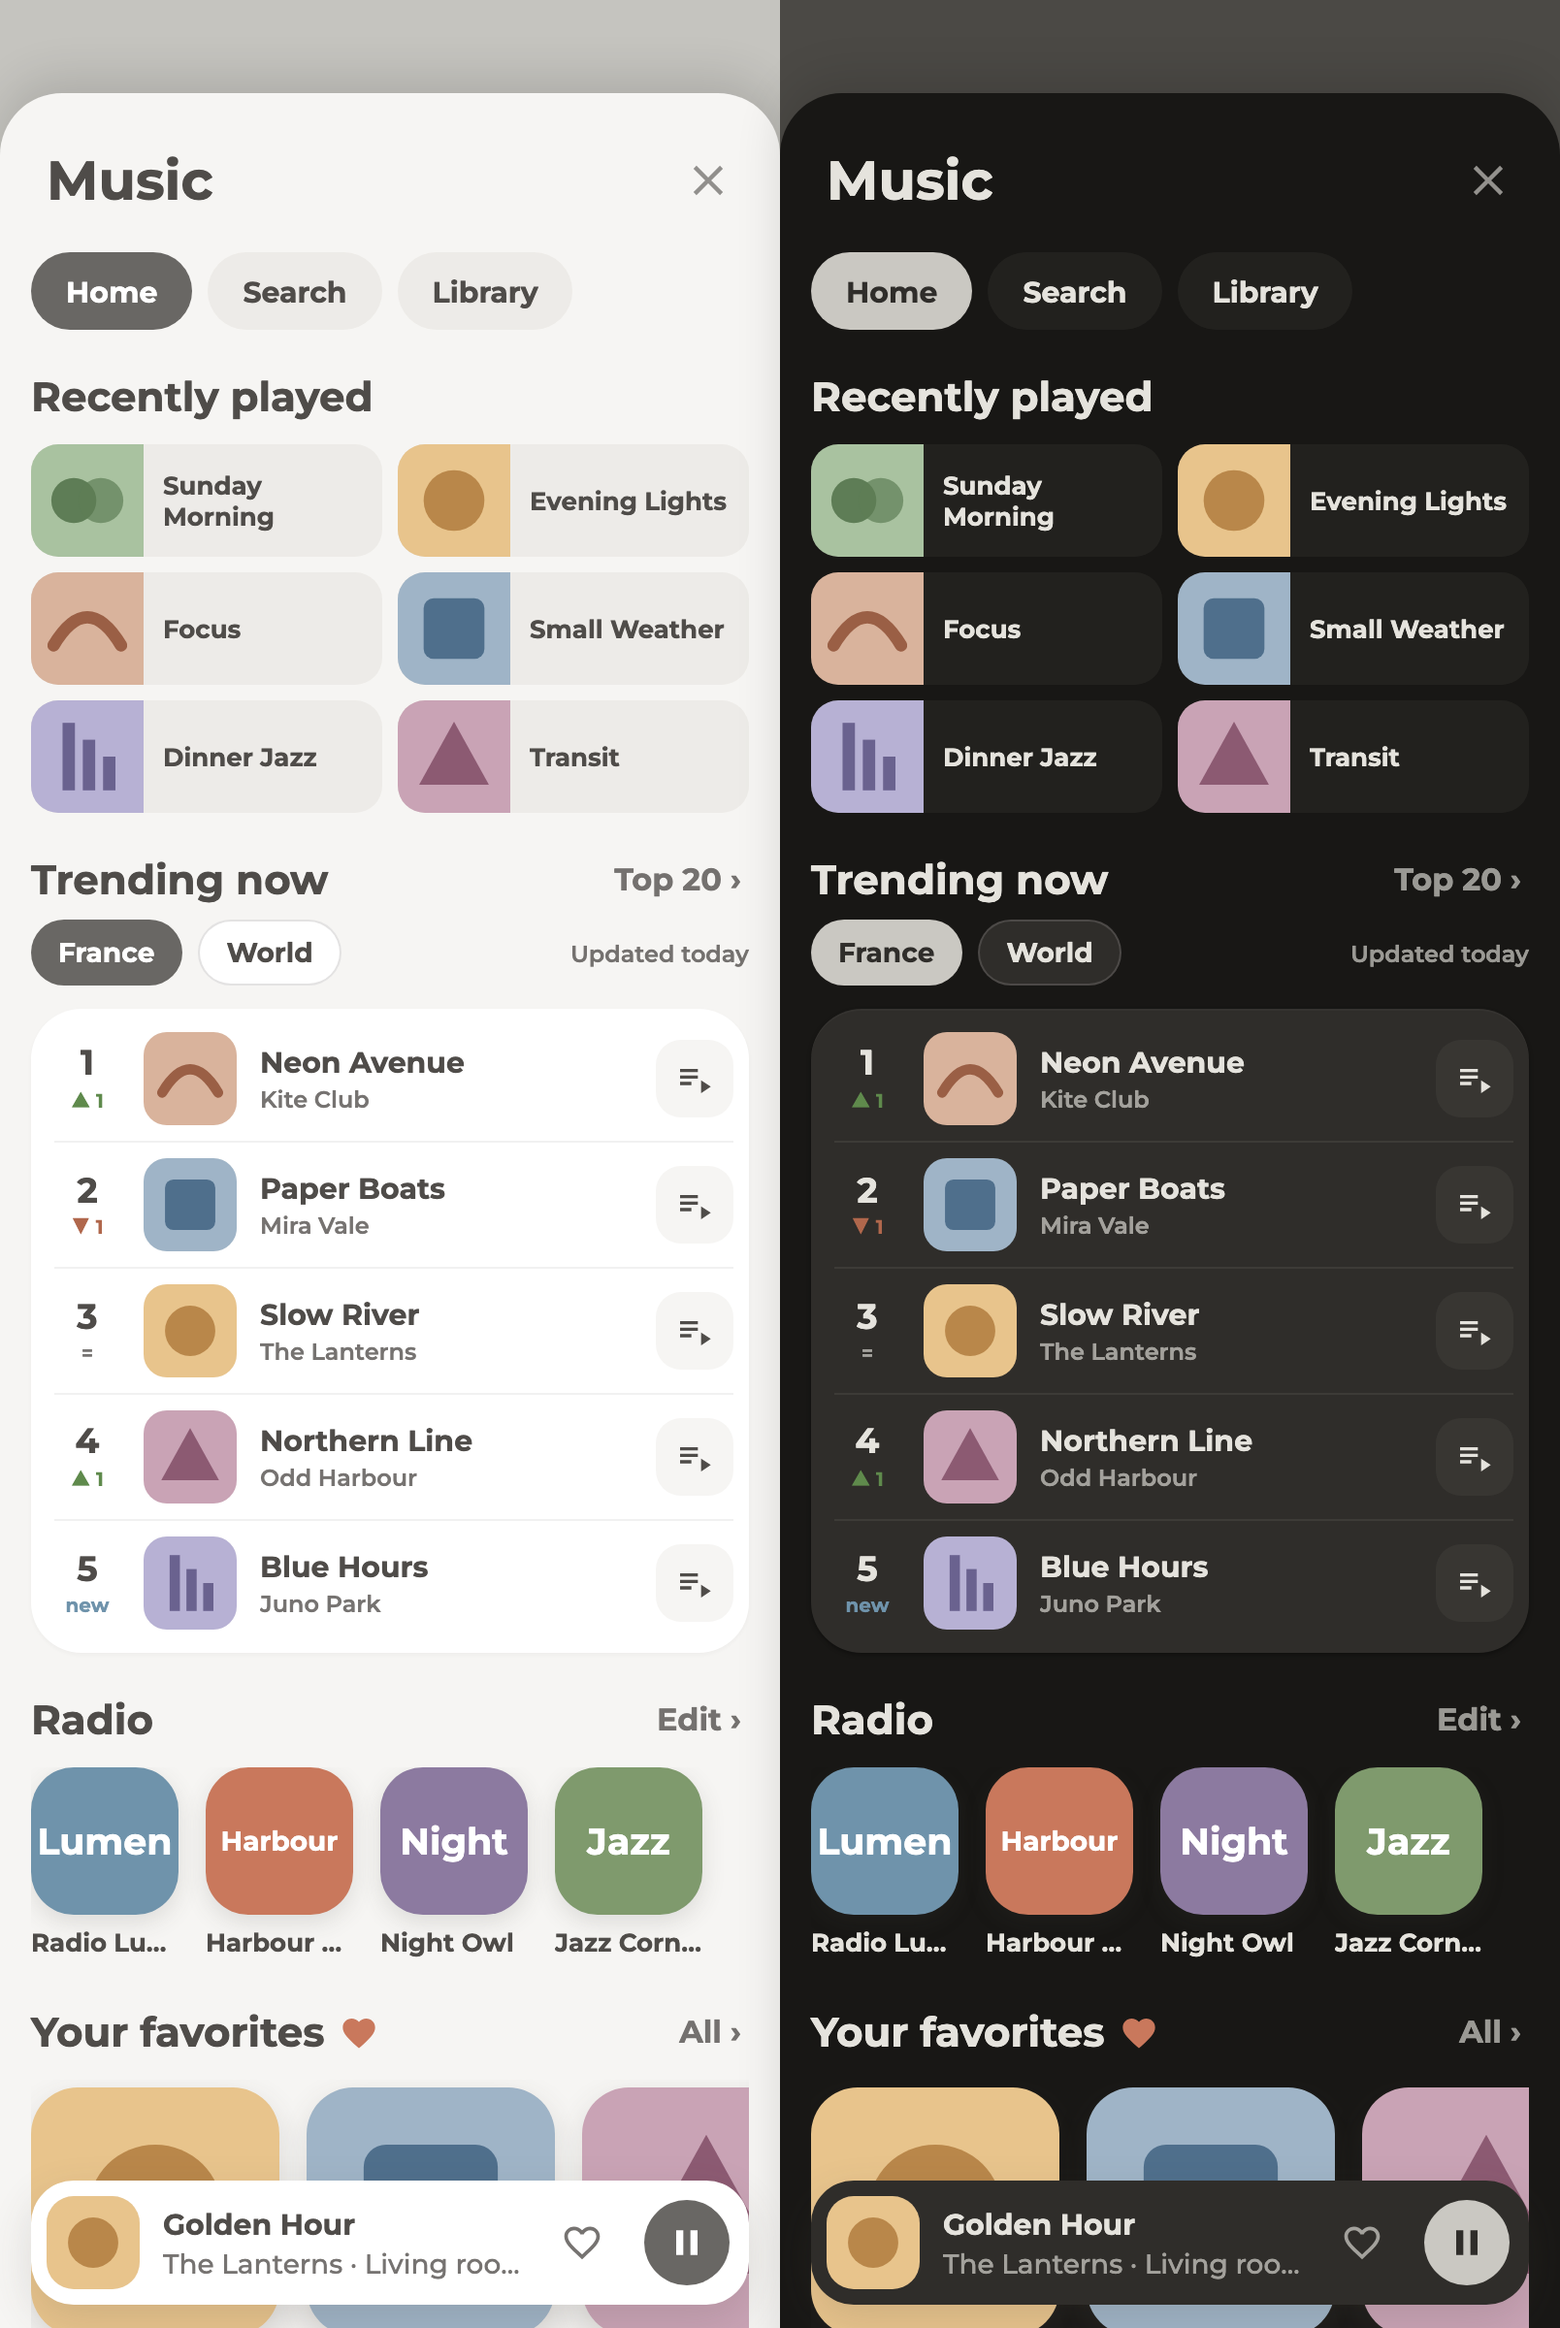
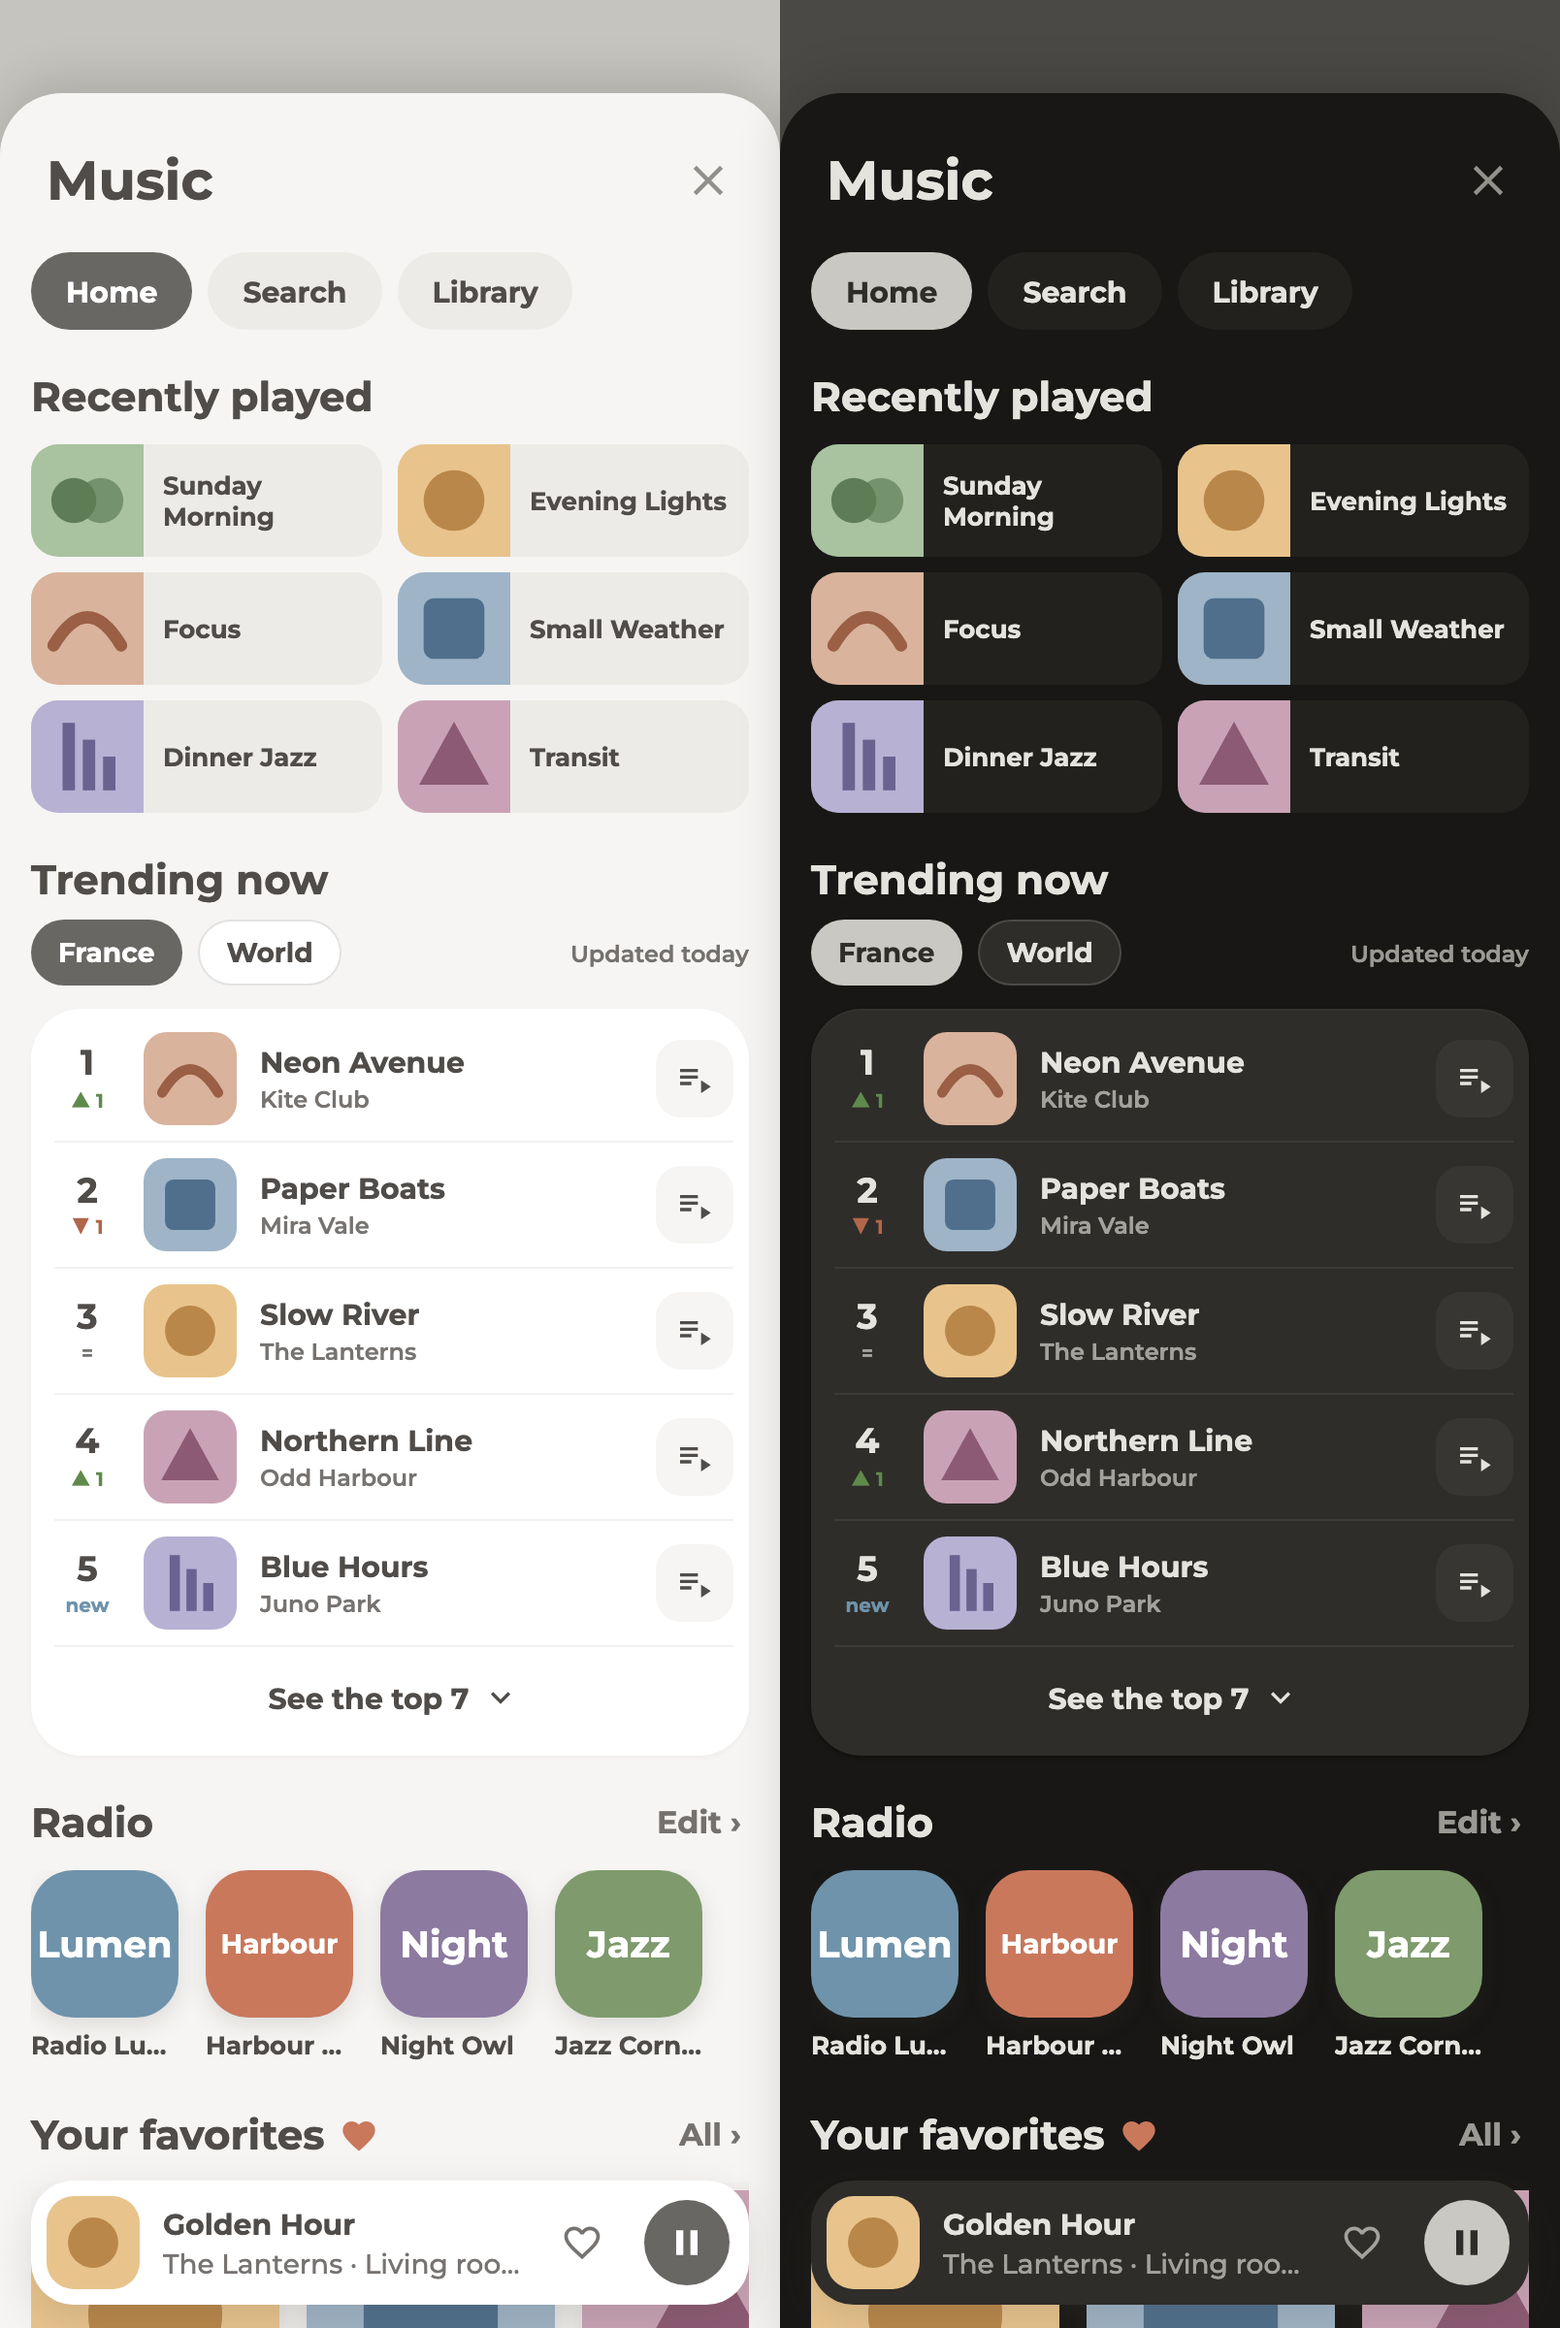
A button under the chart list to see the whole chart

diff --git a/origami-music.js b/origami-music.js
@@ -139,7 +139,7 @@ const ORIGAMI_MUSIC_TEXT = {
     kind: { playlist: "Playlist", album: "Album", artist: "Artiste", track: "Titre", radio: "Radio", podcast: "Podcast", audiobook: "Livre audio" },
     home: "Accueil", searchTab: "Recherche", libTab: "Bibliothèque", played: "Écouté récemment", trends: "Tendances du moment",
     updated: "Mis à jour ", today: "aujourd'hui", yesterday: "hier", on: "le ",
-    top: "Top 20 ›", topLess: "Top 5 ‹", isNew: "nouveau", radios: "Radios", edit: "Modifier ›", favs: "Tes favoris", all: "Tout ›",
+    top: "Voir le top ", topLess: "Voir moins", isNew: "nouveau", radios: "Radios", edit: "Modifier ›", favs: "Tes favoris", all: "Tout ›",
     artists: "Tes artistes", liked: "Titres favoris", recentSearches: "Recherches récentes", clear: "Tout effacer", browse: "Parcourir",
     added: "Ajouts récents", sortRecent: "Récents", sortAZ: "De A à Z", playAll: "Tout lire", openMA: "Ouvrir Music Assistant",
     like: "Ajouté à tes favoris", unlike: "Retiré de tes favoris", notFound: "Introuvable pour l'instant : ", looking: "Recherche de ",
@@ -164,7 +164,7 @@ const ORIGAMI_MUSIC_TEXT = {
     kind: { playlist: "Playlist", album: "Album", artist: "Artist", track: "Track", radio: "Radio", podcast: "Podcast", audiobook: "Audiobook" },
     home: "Home", searchTab: "Search", libTab: "Library", played: "Recently played", trends: "Trending now",
     updated: "Updated ", today: "today", yesterday: "yesterday", on: "on ",
-    top: "Top 20 ›", topLess: "Top 5 ‹", isNew: "new", radios: "Radio", edit: "Edit ›", favs: "Your favorites", all: "All ›",
+    top: "See the top ", topLess: "See less", isNew: "new", radios: "Radio", edit: "Edit ›", favs: "Your favorites", all: "All ›",
     artists: "Your artists", liked: "Liked songs", recentSearches: "Recent searches", clear: "Clear all", browse: "Browse",
     added: "Recently added", sortRecent: "Recent", sortAZ: "A to Z", playAll: "Play all", openMA: "Open Music Assistant",
     like: "Added to your favorites", unlike: "Removed from your favorites", notFound: "Not found for now: ", looking: "Looking for ",
@@ -1348,7 +1348,8 @@ class OrigamiMusic extends OrigamiBase {
     const any = zones.some((z) => (S[cfg.trends[z]]?.attributes?.tracks ?? []).length);
     const rows = trendRows(sensor?.attributes?.tracks, sensor?.attributes?.previous).slice(0, this._topOpen ? 20 : 5);
     const secT = pane.querySelector(".trends");
-    this._paint(secT, [any, zone, this._topOpen ? 1 : 0, sensor?.state, rows.map((r) => r.id + r.move).join(",")].join("|"), () => {
+    const total = Math.min((sensor?.attributes?.tracks ?? []).length, 20);
+    this._paint(secT, [any, zone, this._topOpen ? 1 : 0, sensor?.state, total, rows.map((r) => r.id + r.move).join(",")].join("|"), () => {
       if (!any) { secT.replaceChildren(); return; }
       const chips = this._el("div", "zones");
       for (const z of zones) {
@@ -1376,7 +1377,14 @@ class OrigamiMusic extends OrigamiBase {
         row.append(rank, this._thumb(r.image, "mdi:music-note"), text, next);
         return row;
       }));
-      secT.replaceChildren(this._head(t.trends, this._topOpen ? t.topLess : t.top, { act: "top" }), chips, box);
+      // The switch between the top 5 and the whole chart is a button under the list, easier to see than a link
+      if (total > 5) {
+        const more = this._el("div", "tmore");
+        more.dataset.act = "top";
+        more.append(this._el("span", null, this._topOpen ? t.topLess : t.top + total), this._icon(this._topOpen ? "mdi:chevron-up" : "mdi:chevron-down"));
+        box.append(more);
+      }
+      secT.replaceChildren(this._head(t.trends), chips, box);
     });
 
     const secRa = pane.querySelector(".radios");
@@ -1988,6 +1996,10 @@ const ORIGAMI_MUSIC_CSS = `
   .move-new { color: var(--state-media_player-active-color, #6f93ab); }
   .trow .thumb { width: 48px; height: 48px; border-radius: 12px; }
   .trow .title { font-size: 15px; } .trow .sub { font-size: 12px; font-weight: 600; }
+  .tmore { height: 52px; display: flex; align-items: center; justify-content: center; gap: 6px; cursor: pointer;
+    border-top: 1px solid color-mix(in srgb, var(--primary-text-color, #4a4640) 8%, transparent);
+    font-size: 15px; font-weight: 700; color: var(--primary-text-color); --mdc-icon-size: 20px; }
+  .tmore:active { opacity: 0.6; }
   .nextb { width: 40px; height: 40px; flex: none; border-radius: 13px; background: var(--fill-subtle, #f4f3f0); display: flex;
     align-items: center; justify-content: center; color: var(--primary-text-color); --mdc-icon-size: 20px; cursor: pointer; }
   .rad, .arts { display: flex; gap: 14px; overflow-x: auto; scrollbar-width: none; padding-bottom: 4px; }

diff --git a/test/origami-music.spec.js b/test/origami-music.spec.js
@@ -220,6 +220,12 @@ test("trending tracks show how they moved, and a tap plays the best match from M
   await expect(rows.nth(2)).toContainText("=");
   await expect(rows.nth(4)).toContainText("new");
   await expect(app.locator(".maj")).toHaveText("Updated today");
+  await expect(app.locator(".tmore")).toHaveText("See the top 7");
+  await app.locator(".tmore").click();
+  await expect(rows).toHaveCount(7);
+  await expect(app.locator(".tmore")).toHaveText("See less");
+  await app.locator(".tmore").click();
+  await expect(rows).toHaveCount(5);
   await rows.nth(0).click();
   await expect.poll(() => calls(page)).toContainEqual(expect.objectContaining({ service: "play_media",
     data: expect.objectContaining({ media_content_id: "spotify://track/neon", enqueue: "play" }) }));
@@ -227,6 +233,7 @@ test("trending tracks show how they moved, and a tap plays the best match from M
     service_data: expect.objectContaining({ name: "Kite Club Neon Avenue" }) }));
   await app.locator('.zone[data-zone="World"]').click();
   await expect(rows).toHaveCount(3);
+  await expect(app.locator(".tmore")).toHaveCount(0);
   await expect(rows.nth(0)).toContainText("Static");
   // A "(feat. ...)" on one side only still finds the track, over a first result with another title
   await rows.nth(1).locator(".nextb").click();

diff --git a/test/mock/fixtures.js b/test/mock/fixtures.js
@@ -36,7 +36,7 @@ library.audiobook = [];
 // Two made-up charts as a chart sensor reports them: tracks in order, and the order of the previous chart
 const CHARTS = {
   france: [["Neon Avenue", "Kite Club", 5], ["Paper Boats", "Mira Vale", 2], ["Slow River", "The Lanterns", 1], ["Northern Line", "Odd Harbour", 3],
-    ["Blue Hours", "Juno Park", 6]],
+    ["Blue Hours", "Juno Park", 6], ["Field Notes", "The Lanterns", 4], ["Harbour Lights", "Odd Harbour", 6]],
   world: [["Static", "Odd Harbour", 3], ["Late Bloom", "Mira Vale", 2], ["Golden Hour", "The Lanterns", 1]],
 };
 const chart = (list, base) => ({ tracks: list.map(([title, artist, n], i) => ({ id: base + i, title, artist, image: cover(n) })) });
